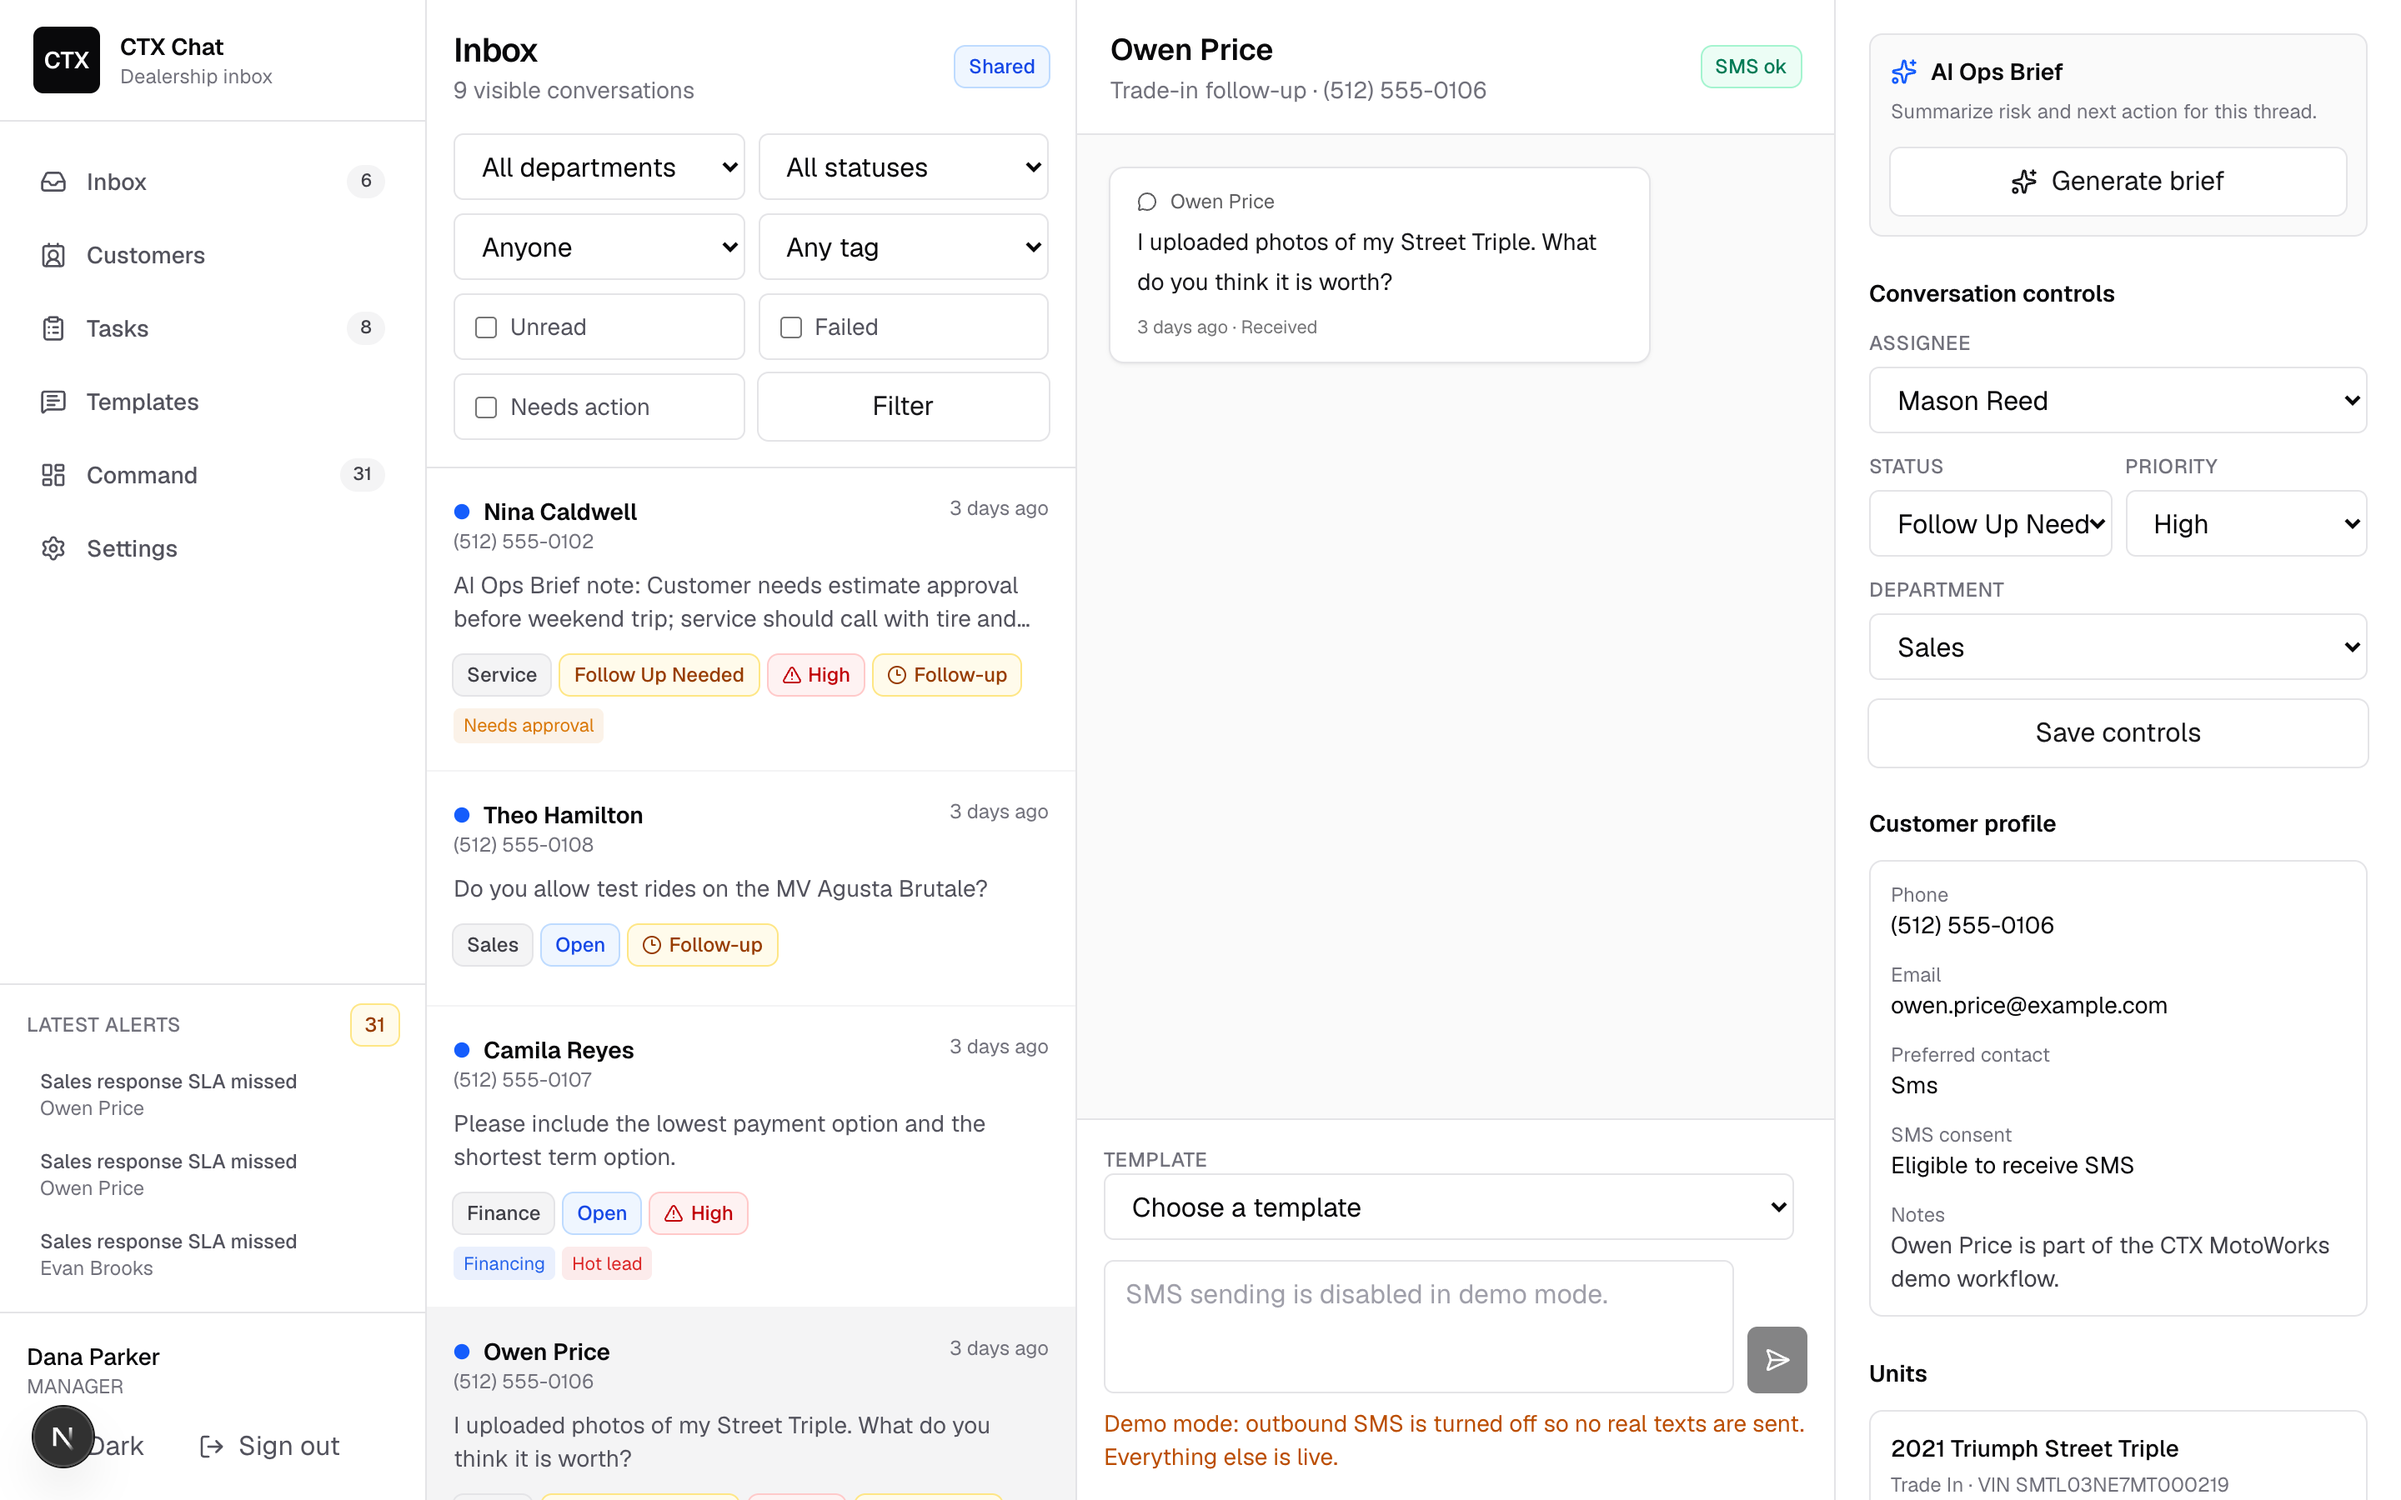
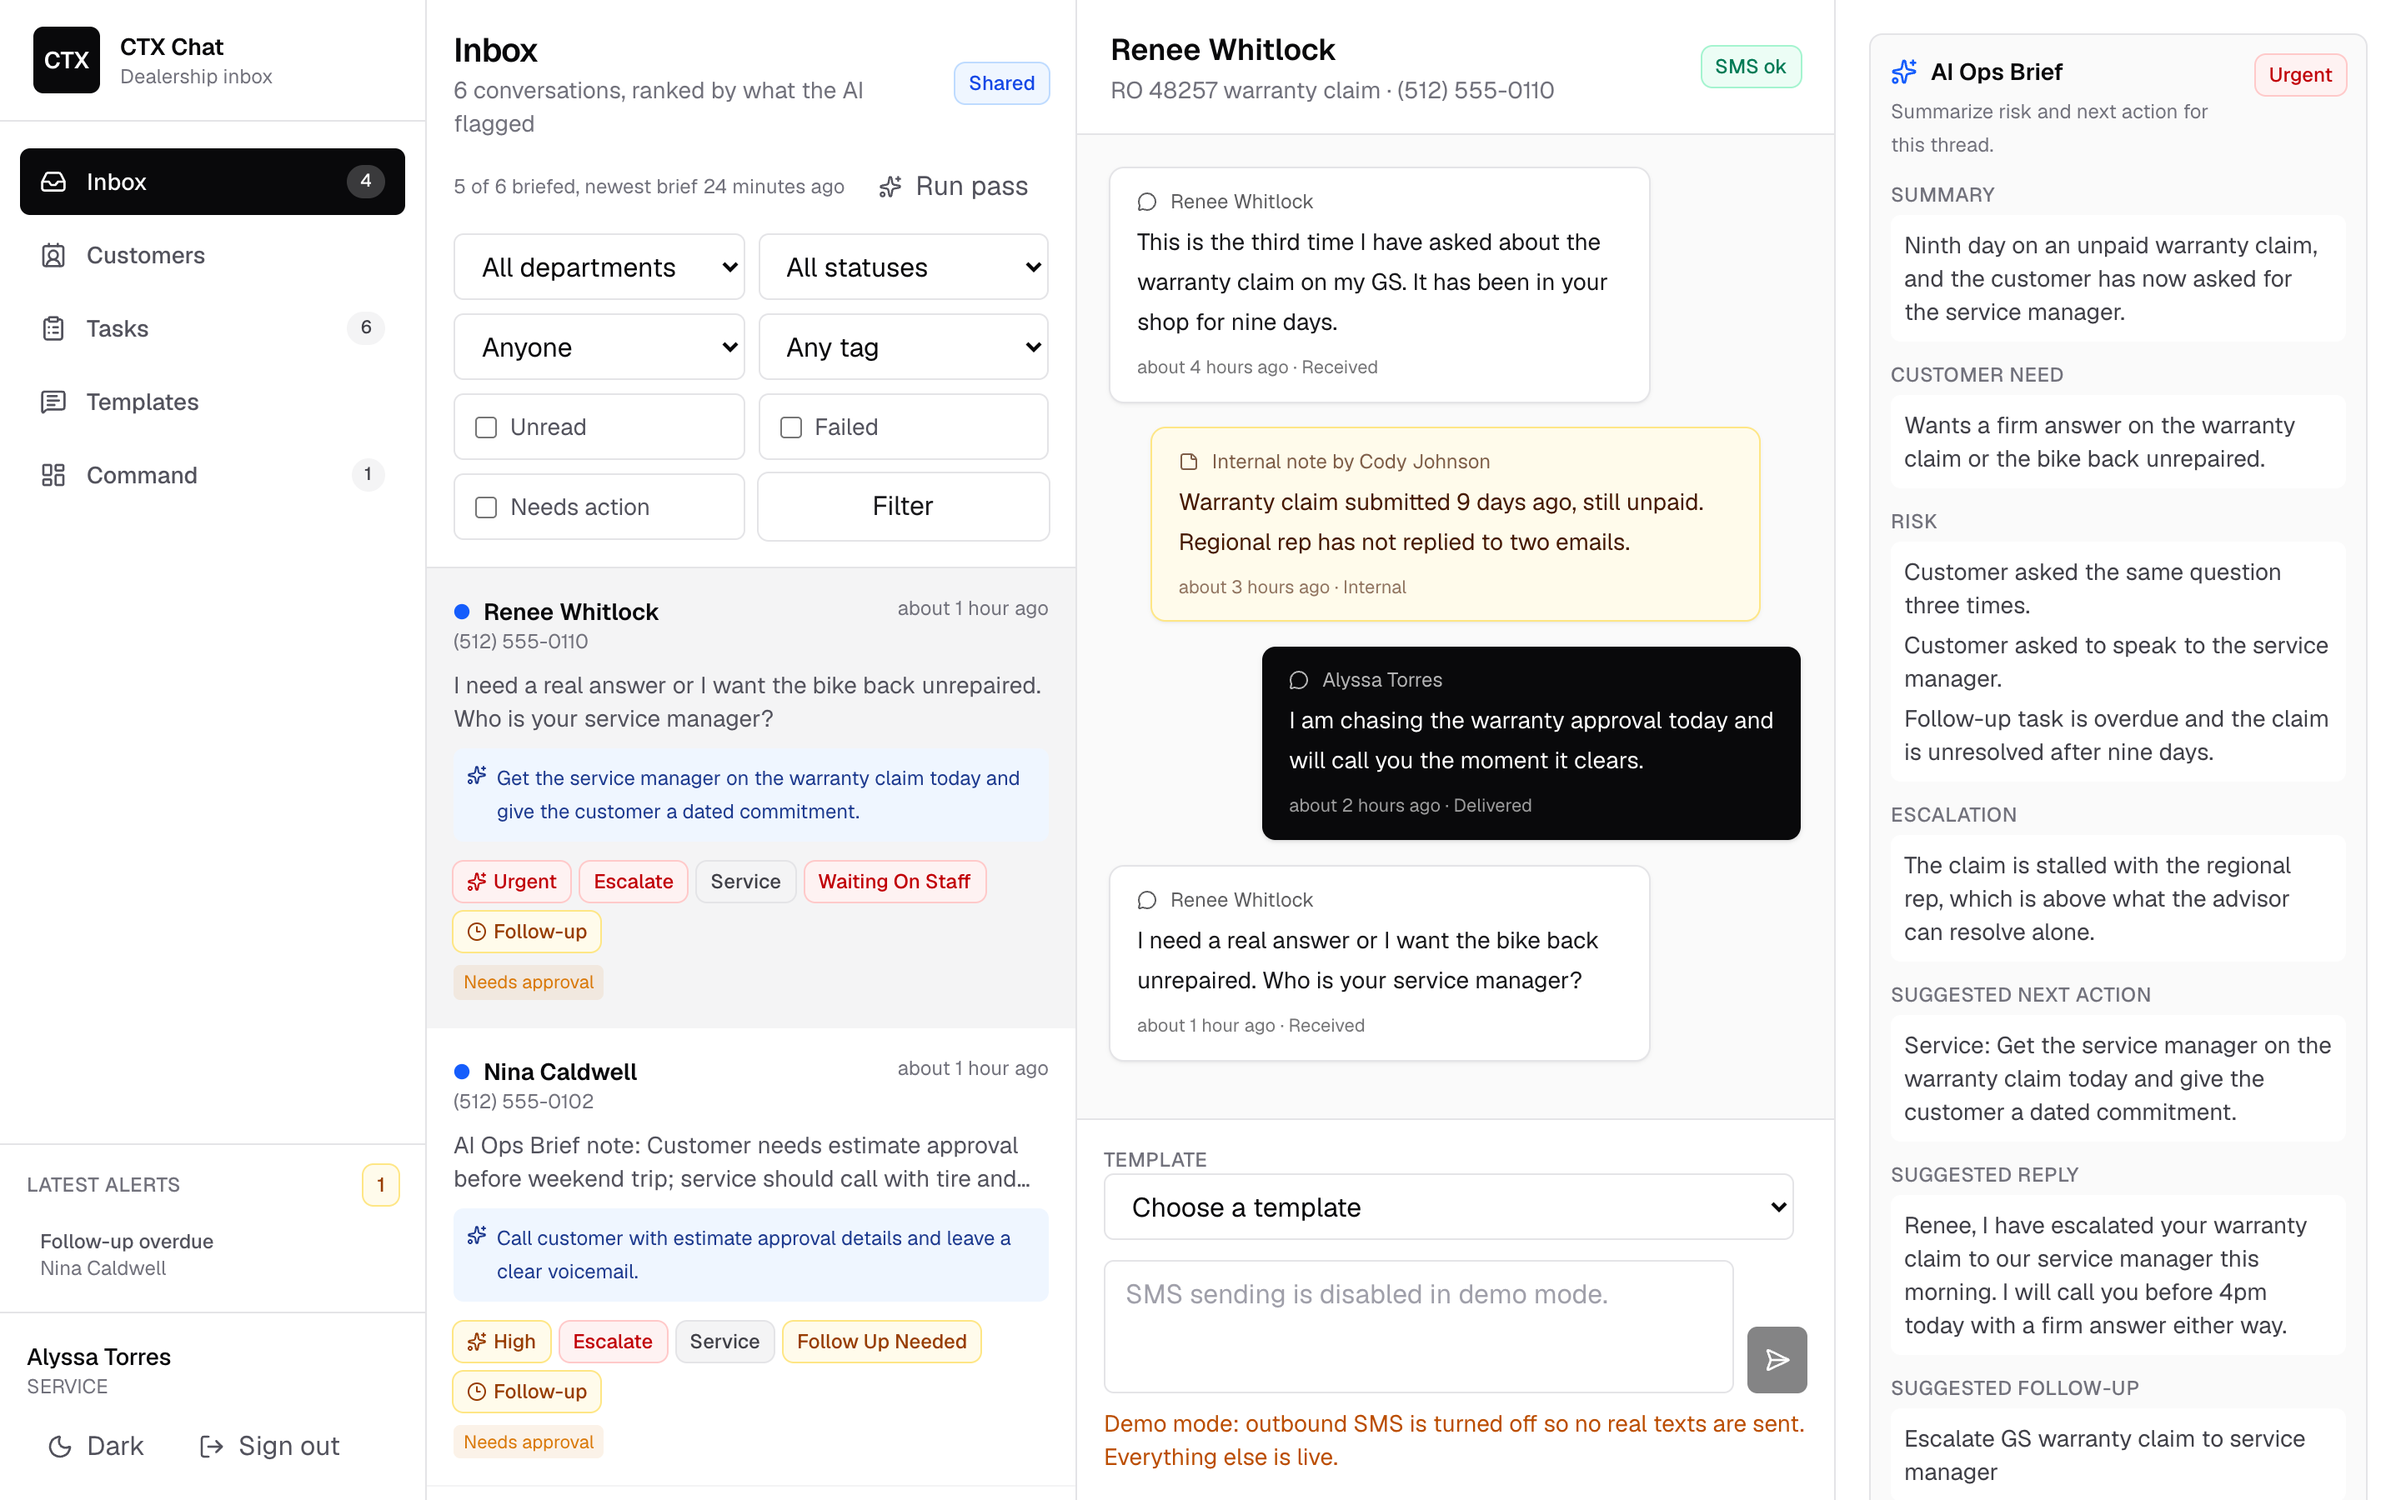
Regenerate the README screenshots against the current product
The screenshots predated this branch and illustrated the product it replaced:
a MANAGER session (Dana Parker), "9 visible conversations", a recency-ordered
list with no risk badges and no recommended next action, no queue status line,
and an empty "Generate brief" button as the only AI entry point. They sat under
a README whose first sentence is the service advisor pitch.

That is the same defect class this branch exists to remove - a claim the
artifact does not support - so the fix is new captures, not softened wording.

Recaptured against a seeded database on a production build (no dev overlay), in
the light theme and at 2880x1800 to match the originals: the advisor's ranked
queue with risk badges and next actions, the AI ops brief on an open thread,
and the follow-up queue those recommendations feed.

diff --git a/README.md b/README.md
@@ -14,11 +14,11 @@ product decisions behind the current framing are in
 
 ## Screenshots
 
-Screens below show the local demo UI.
+Screens below show the local demo UI, signed in as the service advisor.
 
-| Login | Inbox | Tasks |
+| Login | Ranked inbox | Tasks |
 | --- | --- | --- |
-| ![CTX Chat login screen](public/screenshots/login.png) | ![CTX Chat inbox and conversation view](public/screenshots/inbox.png) | ![CTX Chat follow-up task queue](public/screenshots/tasks.png) |
+| ![CTX Chat login screen](public/screenshots/login.png) | ![CTX Chat inbox ranked by AI risk, with a conversation open and its AI ops brief](public/screenshots/inbox.png) | ![CTX Chat follow-up task queue](public/screenshots/tasks.png) |
 
 ## Stack
 
